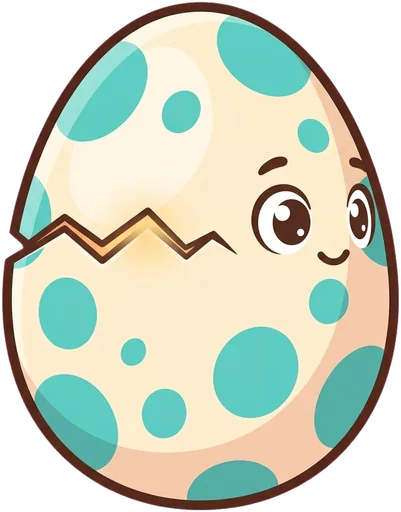
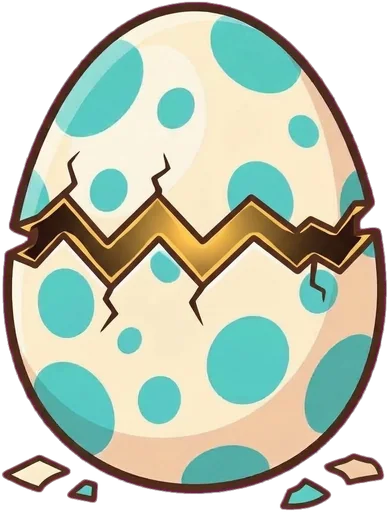
docs(todo): plans 93 and 94 from the owner's review of egg 5 and the dragon journey; egg cracking picture without eyes
Claude-Session: https://claude.ai/code/session_01MAZwqUiswenzU1vg4sNc4N

diff --git a/.todo/94-dragon-journey-review.md b/.todo/94-dragon-journey-review.md
@@ -1,0 +1,105 @@
+# 94 - The dragon story's hero's journey: owner's review
+
+The owner played the dragon story's hero's journey on 2026-10-31: the whole way took about
+3 minutes (too short), the progress bar filled after the first part, the travel card between
+parts was too thin, and several parts need changes. No DB/store impact (alpha: no store
+migrations; a journey still keeps only its best stars). Affects `src/game/levels.ts` (journey
+steps, `JOURNEY_SHARE`, progress), `src/game/runtime.ts` (journey flow, progress bar, leaving),
+`src/game/cards.ts` (`showTravel` is replaced), `src/ui/end-card.ts` (reused for the new panel),
+`src/game/runtime/pause.ts` (the give-up dialog), the part modes `src/game/modes/egg.ts`
+(`BouldersMode`, journey variant), `src/game/modes/dragons-flight.ts`, `src/game/modes/planet-crystals.ts`,
+`src/game/modes/planet.ts` (great swamp), `src/game/modes/launch.ts`, `public/i18n/{sk,en}.json`
+(+ translator notes, `src/i18n/catalog.ts`), `.specify/game/heros-journey.md`, tests in
+`src/game/modes/idle.test.ts` and `src/game/levels.test.ts`.
+
+## Decisions (taken; do not ask)
+
+### Whole journey
+- **Length**: `JOURNEY_SHARE` 2 -> 3 (the dragon journey becomes 6 minutes of active play). Check
+  that every part keeps playing until its share of the minimum is played (as a level does with
+  `levelOver`); a part whose own count runs out early (the swamp ended after about 8 stones) gets
+  more of its units instead of ending. Find and fix the cause of the 3 minutes, not only the share.
+- **Progress bar**: the bar shows the whole journey. Part `i` of `n` fills only its own slice,
+  from `i / n` to `(i + 1) / n` (so after the first of five parts it stands at a fifth, never at
+  the end). The level's progress inside a part maps into its slice.
+- **Get-ready text** (`journey.dragon.down`, sk; en in the same tone):
+  "**Dráčik sa vyliahol** a chce zostať s tebou! Teraz sa musíte **dostať dolu z Hory prebudenia**
+  spoločne. Musíte zostúpiť z hôr a **cez Údolie drakov, Lúku kryštálov a močiar** sa dostať až k
+  rakete, ktorá čaká na brehu, pripravená na odlet hneď, ako dostane kryštálové palivo. Z hory sa
+  kotúľajú kamienky, ktorým je potrebné sa vyhnúť, tak to skúste spolu!"
+  (Names capitalized as decided on 2026-10-31: Planéta drakov, Údolie drakov, Lúka kryštálov.)
+
+### The panel between parts (replaces the travel card)
+- Same card as every end card (`src/ui/end-card.ts`, the look agreed in plan 85 and the design
+  canvas named in it): title **"Cesta hrdinu pokračuje!"** with the round X (the X = "Ideme
+  ďalej"; Esc too); on the left the **map picture of the world the next part goes to**
+  (`ui-map-<world>`); on the right, instead of stats, the **next part's text** (with `**bold**`);
+  buttons: **"Ideme ďalej"** (main, focused, Space/Enter), **"Krátke cvičenie"** (the pause card's
+  short stretch exercise, `level.stretch`; after it the panel comes back), **"Vzdať to"** (last).
+- The picture: valley part -> world 4's (`dragons`) picture, crystals and swamp -> the planet's,
+  **the take-off -> the rocket world's** (`space`) picture, though its background stays the
+  planet shore. Add a `picture` world to `JourneyStep` where it differs from `world`.
+- Part texts (sk; en in the same tone; they replace `journey.dragon.valley`, `crystals`, `swamp`,
+  `launch`; drop `journey.next` and the `*Place` keys if nothing uses them any more):
+  - valley: "Ďalej nás čaká **Údolie drakov**, v ktorom sa môžeš naučiť lietať. Na to, aby sa
+    dráčik **naučil lietať** ako jeho kamaráti, musí **úspešne preletieť k ohnisku a späť!**"
+  - crystals: "Na Lúke kryštálov nájdeš **energetické drahokamy**, ktoré **potrebuje tvoja raketa**
+    na odlet. Nazbieraj ich čo najviac! Dráčiky z údolia ťa už na lúke čakajú."
+  - swamp: "Na brehu močiara je už **zaparkovaná raketa.** Palivo už máme, stačí sa dostať na druhú
+    stranu. Dráčik sa má, ten môže letieť! Ale ja to zvládnem tiež!"
+  - take-off: "Raketa čaká na brehu. Napíš **príkazy do palubného počítača** a naštartuj ju, aby ste
+    mohli **s dráčikom odletieť** zažívať nové dobrodružstvá na rôznych iných svetoch."
+- **"Vzdať to"** opens a confirm dialog like "Ukončiť písanie" on the pause card, but with the
+  title **"Hrdina, vydrž to!"**, the text "Táto cesta hrdinu môže byť ťažký oriešok aj pre
+  **najlepších hrdinov, ako si ty!** Skús cestu dokončiť, ak to skutočne nejde, môžeš preskupiť
+  svoje sily a vrátiť sa neskôr. Ak teraz ukončíš písanie, Cesta hrdinu sa nezapočíta a nabudúce
+  začne od začiatku." and the buttons **"Pokračovať v ceste"** (default, focused, Esc) and
+  **"Ukončiť písanie"**. The pause card's own "Ukončiť písanie" during a journey uses the same
+  dialog (one dialog for leaving a journey).
+
+### Part 1, down the mountain (`BouldersMode` journey variant)
+- Stones as in egg 4 since 2026-10-31 (small, 58-64 px; a typed one slides off the path, a missed
+  one bounces off Tapko and falls, he wobbles) - the journey variant must use exactly that code.
+- **A slip** (a wrong key inside a stone's word) adds one more stone and a bit of time (the
+  part's minimum grows by one planned word's seconds), at most 7 times in the part.
+
+### Part 2, the valley flight (`dragons-flight.ts` journey variant)
+- A failed flight does not count. The little dragon must make **two successful flights**.
+- It always flies between Tapko and the hearth: from Tapko to the hearth, then from the hearth
+  back to Tapko, alternating; a failed flight is flown again in the same direction until it
+  succeeds. The part ends after the second success (and its minimum).
+
+### Part 3, the crystal meadow (`planet-crystals.ts` journey variant)
+- **Two slips in one crystal's word**: the crystal cracks and vanishes (no second chance on it).
+- The rocket needs **at least 7 crystals**: the part goes on until 7 are collected (and its
+  minimum is played); the end line says how many the rocket got.
+
+### Part 4, the swamp (`planet.ts` great swamp journey variant)
+- The little dragon flies above Tapko (a gentle hover over his head, following him), not on the
+  stones behind him.
+- Longer: at least **4 rounds** (three fragile stones and the firm fourth each, so 16 stones)
+  before the shore, plus whatever its share of the minimum needs.
+
+### Part 5, the take-off (`launch.ts` journey variant)
+- The rocket stands further from the water's edge, and Tapko stands right next to it (now both
+  are almost at the shore's edge).
+- At least **7 accepted commands** before the countdown.
+- The rocket confirms an accepted command with one of (sk): "Potvrdzujem!", "Ok!", "Dobre!",
+  "Rozumiem!", "V poriadku!", "Správne!"; it rejects a wrong one with one of: "Chyba!",
+  "Nerozumiem!", "Zopakujte!", "Prosím, znova!", "Preklep!", "Neznámy príkaz!" (en in the same
+  tone). Reuse the rocket world's reply keys if they fit, else add `journey.dragon.launchOk` /
+  `launchNo` lists.
+
+## Steps
+- [ ] `JOURNEY_SHARE` 3 and every part honours its minimum (find why it took 3 minutes); tests.
+- [ ] Progress bar over the whole journey (slice per part); test of the mapping.
+- [ ] Panel between parts on the end card (picture of the next world, its text, three buttons, X/Esc); `showTravel` and its texts removed; `picture` on `JourneyStep`.
+- [ ] Give-up dialog "Hrdina, vydrž to!" from the panel and from the pause card during a journey.
+- [ ] Texts: get-ready, four part texts, give-up dialog, rocket replies (sk, en, translator notes, catalog).
+- [ ] Part 1: egg 4 stones; a slip adds a stone and time, at most 7.
+- [ ] Part 2: two successful flights, alternating Tapko -> hearth -> Tapko, failed ones repeated.
+- [ ] Part 3: two slips crack a crystal; at least 7 crystals.
+- [ ] Part 4: dragon hovers above Tapko; at least 4 rounds.
+- [ ] Part 5: rocket off the shore edge, Tapko beside it; at least 7 commands; the reply lines.
+- [ ] `.specify/game/heros-journey.md` updated (what and why).
+- [ ] tsc, vitest, build; play the whole journey in the browser with the Playwright MCP (tester profile, `?fast`, `window.tapkoType`): the panel between each part, the give-up dialog, the bar after each part, each part's change, total active time about 6 minutes at the tester's pace.

diff --git a/.todo/93-egg-spell-rework.md b/.todo/93-egg-spell-rework.md
@@ -1,0 +1,56 @@
+# 93 - Egg 5, the spell of awakening: owner's review
+
+The owner played egg 5 (level `w5-5`, kind `spell`, `src/game/modes/egg-spell.ts`) on
+2026-10-31 and asked for a calmer, clearer spell with a gentler slip rule and a real hatching
+end. No DB/store impact (alpha: no store migrations; nothing new is stored). Affects
+`src/game/modes/egg-spell.ts`, its tests (`src/game/modes/*.test.ts` that cover `SpellRibbonMode`),
+`public/i18n/{sk,en}.json` (+ `public/i18n/translator/en.json` notes, `src/i18n/catalog.ts`
+when a key is added or removed), `.specify/game/story.md` (egg 5 paragraph).
+
+## Decisions (taken; do not ask)
+- **Start text** (`story.spellStart`, sk; translate to en in the same tone, bold with `**`):
+  "**Si na vrchole** Hory prebudenia. Polož vajíčko do ohniska drakov a prednes kúzlo
+  prebudenia. Je dlhé a musí byť presné: pri chybe sa ti v kúzle objaví nové slovo, ktoré musí
+  chybu napraviť, takže **sa sústreď na presné písanie** kúzla. Po jeho vyslovení by sa malo
+  ohnisko prebudiť, a ak bude dostatočne silné, dráčik sa prebudí. Určite sa už na teba teší!"
+- **Cracking egg picture**: `obj-egg-cracking` is already redone (half cracked, no eyes,
+  2026-10-31, `assets-src/PROMPTS.md`). Nothing to generate; only check it reads well in the hearth.
+- **Hearth near Tapko**: the hearth stands just right of Tapko (its middle about 150 px of
+  stage right of `HERO_X`, not at 78 % of the stage), so the spell area on the right half stays free.
+- **Layout of the spell**: the ribbon (the words to type) and the stone frame under it (what is
+  written) have exactly the same width and the same left edge, both in the right half of the
+  stage (`x` from `vw / 2` to `vw` minus a margin). When the stage is narrow (`vw < 1.6 * VH`,
+  portrait-ish or a small laptop), they take the right two thirds instead. Tapko and the hearth
+  stay in the left part.
+- **Smooth words**: the ribbon never jumps. Its offset follows the target position with a
+  critically damped spring (or an exponential ease, about 0.25 s time constant), also after a
+  slip and when a new word is added; no instant snaps. New words fade/slide in from the right.
+- **Grey inactive words**: every word but the one in progress is drawn grey (the game's muted
+  text grey, e.g. `#8a8f98`, at full opacity), the word in progress in the normal ink.
+- **Soft edges**: both ends of the ribbon fade out over the width of the ribbon's end cap (the
+  half circle of its rounded ends, i.e. `RIBBON_H / 2` plus a little): anything outside and
+  under the fade dissolves smoothly (a horizontal alpha gradient mask, e.g. draw the ribbon to
+  an offscreen canvas and `destination-in` a linear gradient), never a hard cut.
+- **Slip rule (replaces `slipBack`)**: a slip no longer erases anything. The word in progress
+  starts again from its first letter, and the spell **grows**: one new word is inserted right
+  after the current word (drawn from the same spell vocabulary as the rest), and the level's
+  minimum time grows by that word's share (`L.extendMin`, seconds of one planned word, as the
+  mountain's detours do). At most 10 added words per level; after that a slip only restarts the
+  word. The existing slip lines stay (first slip explains, then one in about ten reminds);
+  their text must say a word was added, not that one vanished: sk "Chybička! Do kúzla pribudlo
+  slovo." (`story.spellSlip`), keep `story.spellCareful` if it fits, else reword the same way.
+- **The end**: when the last word is typed, the flames flare once, then the egg hatches
+  (`obj-egg-cracking` -> the shell breaks), **the flames go out** (to `obj-flame-out` or to no
+  flame at all, then the cold hearth), the little dragon (`obj-dragon-hatched`, out of its shell)
+  **jumps out** of the hearth with a hop arc and lands next to Tapko on his right, then the
+  level ends. Its line is just "Ahoj!" (en "Hi!") (`story.spellHello`, one short line), no long
+  speech. Keep the total end about as long as now (about 4 s).
+
+## Steps
+- [ ] Start text sk/en; `story.spellSlip` (and `spellCareful` if needed) reworded for the new rule.
+- [ ] Hearth next to Tapko; spell ribbon and frame in the right half (right two thirds when narrow), same width and left edge.
+- [ ] Ribbon motion smoothed (no snapping), new words ease in; inactive words grey; soft fading ends.
+- [ ] Slip rule: restart the word, insert one word after it, extend the minimum, cap 10; remove `slipBack` and anything only it used (no dead code); tests rewritten for the new rule.
+- [ ] End: flare, hatch, flames out, the dragon hops out to Tapko, "Ahoj!".
+- [ ] `.specify/game/story.md` egg 5 paragraph updated (what and why).
+- [ ] tsc, vitest, build; play `w5-5` in the browser with the Playwright MCP (tester profile, `?fast`, `window.tapkoType`): the layout at 1366x768 and at a narrow 1000x768, a slip (a word is added, nothing vanishes, nothing jumps), the end sequence.

diff --git a/assets-src/PROMPTS.md b/assets-src/PROMPTS.md
@@ -577,7 +577,7 @@ BG is `magenta color (#FF00FF)` unless the table says `green`, then use `green c
 | `obj-hearth.jpg` | (2026-10-31, the dragons' hearth on the summit; attach `obj-firepit.jpg`) a big ring of old carved stones seen a little from above, runes carved softly in them (not an altar), the inside empty bare ash-grey ground: the game draws flames and an egg into it; about 1.5 times wider than tall | magenta |
 | **Egg journey** | | |
 | `obj-egg.jpg` | a big oval dragon egg, cream with turquoise spots, front view | magenta |
-| `obj-egg-cracking.jpg` | the same dragon egg with a zigzag crack and a tiny light glowing from inside | magenta |
+| `obj-egg-cracking.jpg` | (redone 2026-10-31: the old one had eyes) **attach `obj-egg-plain.jpg`**, "redraw ... in exactly the same drawing style": the egg half cracked, a big jagged zigzag crack around its middle, the upper shell slightly lifted and tilted, a thin warm golden light out of the crack, two or three small shell chips; NO face, NO eyes, nothing peeking out | magenta |
 | `obj-egg-plain.jpg` | (plan 83, done 2026-10-30; the valley's take-off end and the `egg` scene) **attach `obj-egg.jpg`**: "redraw the attached dragon egg in exactly the same drawing style, outline, shading, colours, size, position and shape (the same cream egg with the same turquoise spots), but with NO face at all: no eyes, no eyebrows, no mouth, no cheeks. Where the face was, the egg shell simply continues in cream with turquoise spots like the rest", front view | magenta |
 | `obj-stump.jpg` | a short round tree stump with a small mushroom | magenta |
 | `obj-rock-round.jpg` | a smooth round grey rock with a small tuft of grass | magenta |

diff --git a/.todo/QUEUE.md b/.todo/QUEUE.md
@@ -6,4 +6,6 @@ each in its own clean session. One line per plan in `.todo/`:
 listed here is never run. Lines whose plan has moved to `.todo/.done/` are
 skipped, and the session that finishes a plan removes its line.
 
+- [P1] 93-egg-spell-rework.md - owner review of the story's last level; small and independent, first
+- [P1] 94-dragon-journey-review.md - owner review of the dragon journey; after 93 so the journey follows the hatching as reworked
 - [P2] 92-story-pack-groundwork.md - safe refactors only, ahead of any story pack work; nothing depends on it yet
